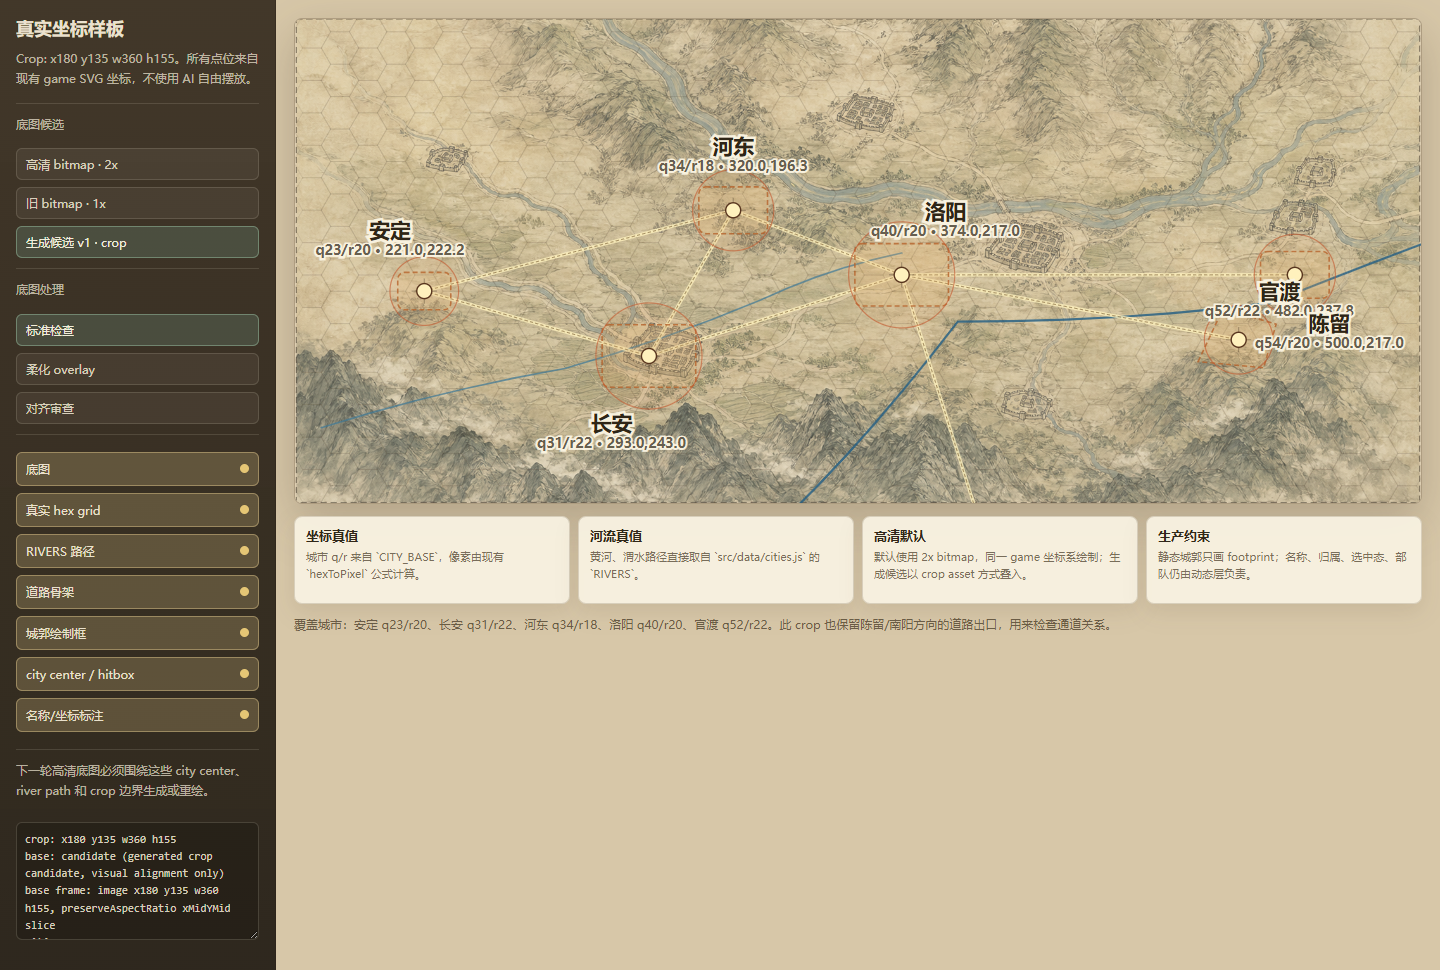
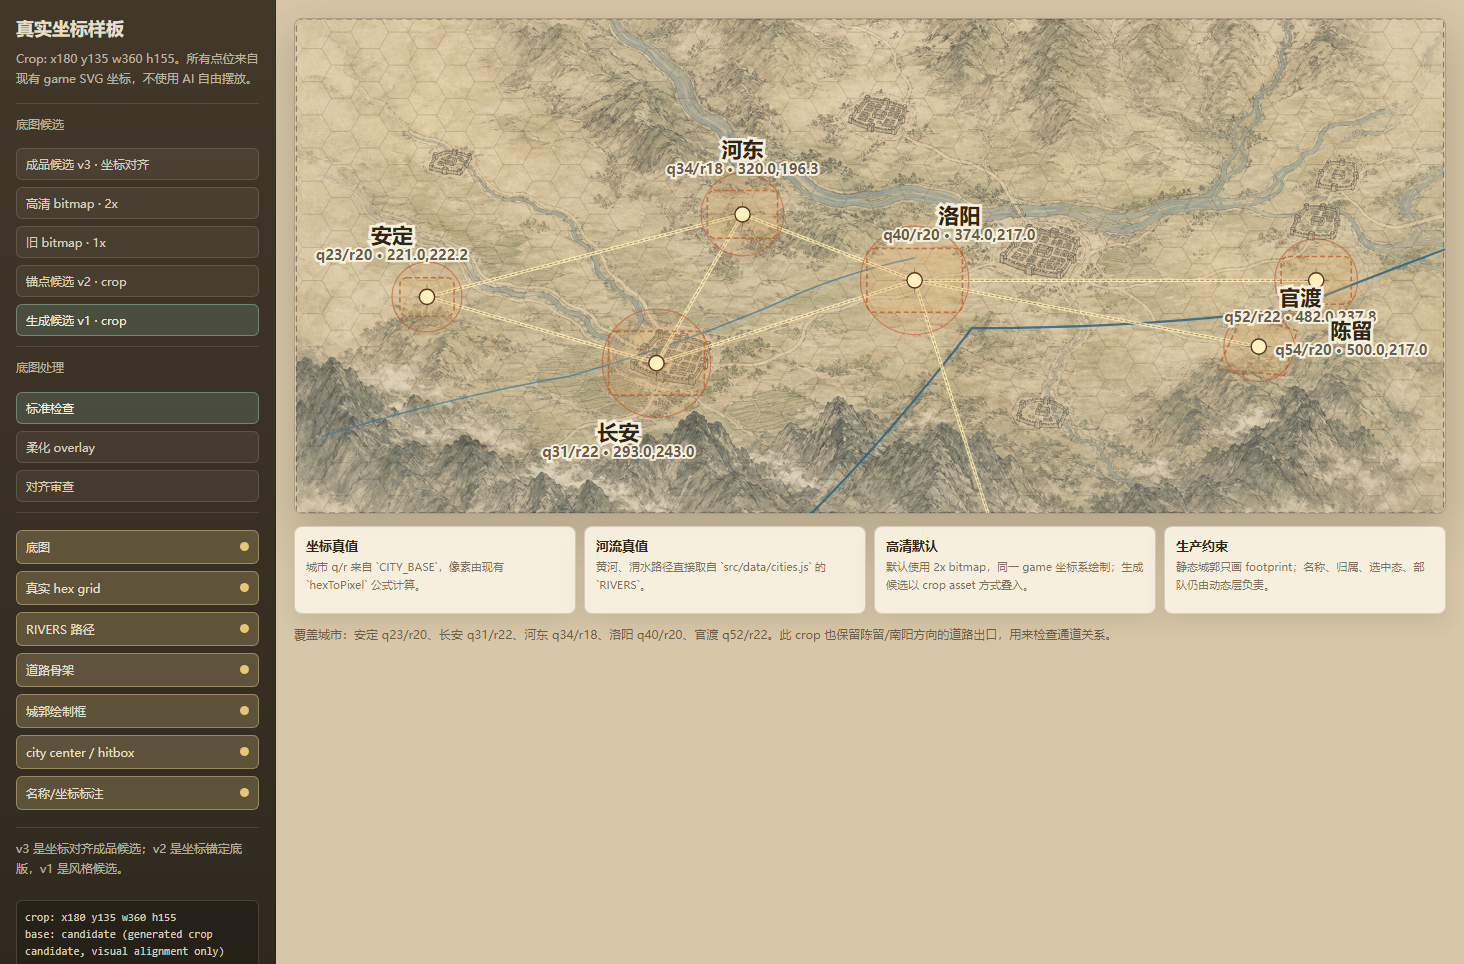
docs(map): add coordinate-aligned crop candidate v3

Changed region(s): [[0.0, 0.0, 1.0, 1.0], [0.875, 0.0622, 0.9062, 0.0934]]

diff --git a/docs/map_design/real_coord_crop_overlay.html b/docs/map_design/real_coord_crop_overlay.html
@@ -317,8 +317,10 @@
       <div class="controls">
         <p class="meta">底图候选</p>
         <div class="option-grid">
-          <button class="option" data-base="hd" data-active="true">高清 bitmap · 2x</button>
+          <button class="option" data-base="aligned" data-active="true">成品候选 v3 · 坐标对齐</button>
+          <button class="option" data-base="hd" data-active="false">高清 bitmap · 2x</button>
           <button class="option" data-base="legacy" data-active="false">旧 bitmap · 1x</button>
+          <button class="option" data-base="anchor" data-active="false">锚点候选 v2 · crop</button>
           <button class="option" data-base="candidate" data-active="false">生成候选 v1 · crop</button>
         </div>
       </div>
@@ -343,7 +345,7 @@
       </div>
 
       <div class="controls">
-        <p class="meta">下一轮高清底图必须围绕这些 city center、river path 和 crop 边界生成或重绘。</p>
+        <p class="meta">v3 是坐标对齐成品候选；v2 是坐标锚定底版，v1 是风格候选。</p>
         <textarea id="coordReadout" class="readout" spellcheck="false" readonly></textarea>
       </div>
     </aside>
@@ -352,7 +354,7 @@
       <section class="stage">
         <svg viewBox="180 135 360 155" aria-label="Luoyang Changan real coordinate crop">
           <g id="baseLayer">
-            <image id="baseImage" class="base-image" data-treatment="normal" href="../../assets/maps/china-ink-base-v1-hd.png" x="0" y="-12" width="1360" height="765" preserveAspectRatio="none"/>
+            <image id="baseImage" class="base-image" data-treatment="normal" href="real_coord_crop_base_aligned_v3.png" x="180" y="135" width="360" height="155" preserveAspectRatio="xMidYMid meet"/>
             <rect class="crop-mask" x="0" y="0" width="960" height="740"/>
             <rect class="crop-frame" x="180" y="135" width="360" height="155"/>
           </g>
@@ -384,6 +386,12 @@
     const HEX_H = Math.sqrt(3) * HEX_SIZE;
     const CROP = { x: 180, y: 135, w: 360, h: 155 };
     const baseSources = {
+      aligned: {
+        href: 'real_coord_crop_base_aligned_v3.png',
+        frame: CROP,
+        preserve: 'xMidYMid meet',
+        note: 'coordinate-aligned production candidate'
+      },
       hd: {
         href: '../../assets/maps/china-ink-base-v1-hd.png',
         frame: { x: 0, y: -12, w: 1360, h: 765 },
@@ -396,6 +404,12 @@
         preserve: 'none',
         note: 'full-map coordinate image'
       },
+      anchor: {
+        href: 'real_coord_crop_base_anchor_v2.png',
+        frame: CROP,
+        preserve: 'xMidYMid meet',
+        note: 'coordinate-anchored crop candidate'
+      },
       candidate: {
         href: 'real_coord_crop_base_candidate_v1.png',
         frame: CROP,
@@ -403,7 +417,7 @@
         note: 'generated crop candidate, visual alignment only'
       }
     };
-    let currentBase = 'hd';
+    let currentBase = 'aligned';
 
     const cities = [
       { id: 'anding', name: '安定', q: 23, r: 20, size: 'small', tags: '山地/产马', label: [-11, -17] },
@@ -540,28 +554,35 @@
       });
     }
 
+    function setBase(nextBase) {
+      const source = baseSources[nextBase];
+      if (!source) return;
+      const frame = source.frame;
+      currentBase = nextBase;
+      baseImage.setAttribute('href', source.href);
+      baseImage.setAttribute('x', frame.x);
+      baseImage.setAttribute('y', frame.y);
+      baseImage.setAttribute('width', frame.w);
+      baseImage.setAttribute('height', frame.h);
+      baseImage.setAttribute('preserveAspectRatio', source.preserve);
+      setActiveButton('[data-base]', 'base', nextBase);
+      updateCoordReadout();
+    }
+
+    function setTreatment(nextTreatment) {
+      baseImage.dataset.treatment = nextTreatment;
+      setActiveButton('[data-treatment]', 'treatment', nextTreatment);
+    }
+
     document.querySelectorAll('[data-base]').forEach(btn => {
       btn.addEventListener('click', () => {
-        const nextBase = btn.dataset.base;
-        const source = baseSources[nextBase];
-        const frame = source.frame;
-        currentBase = nextBase;
-        baseImage.setAttribute('href', source.href);
-        baseImage.setAttribute('x', frame.x);
-        baseImage.setAttribute('y', frame.y);
-        baseImage.setAttribute('width', frame.w);
-        baseImage.setAttribute('height', frame.h);
-        baseImage.setAttribute('preserveAspectRatio', source.preserve);
-        setActiveButton('[data-base]', 'base', nextBase);
-        updateCoordReadout();
+        setBase(btn.dataset.base);
       });
     });
 
     document.querySelectorAll('[data-treatment]').forEach(btn => {
       btn.addEventListener('click', () => {
-        const nextTreatment = btn.dataset.treatment;
-        baseImage.dataset.treatment = nextTreatment;
-        setActiveButton('[data-treatment]', 'treatment', nextTreatment);
+        setTreatment(btn.dataset.treatment);
       });
     });
 
@@ -576,6 +597,9 @@
     drawHexes();
     drawRoads();
     drawCities();
+    const params = new URLSearchParams(location.search);
+    setBase(params.get('base') || currentBase);
+    if (params.has('treatment')) setTreatment(params.get('treatment'));
     updateCoordReadout();
   </script>
 </body>

diff --git a/docs/memory/project_map_ui_direction.md b/docs/memory/project_map_ui_direction.md
@@ -148,3 +148,34 @@ Current judgment:
 - `real_coord_crop_base_candidate_v1.png` is visually promising but not coordinate-authoritative; some baked city footprints are still offset from the real anchors, so use it as a style/crop candidate and verify or repaint against the overlay before production.
 - The next actual art step should produce or repaint a crop that has static city/pass footprints baked into the terrain base, then drop it behind this same overlay to test snap accuracy.
 - Do not bake dynamic city names, ownership, selected state, units, war state, or development/status into the bitmap.
+
+## 2026-06-05 Anchor Candidate v2
+
+Continued the real-coordinate crop workbench with a deterministic coordinate-anchored candidate:
+
+- Added `docs/map_design/real_coord_crop_base_anchor_v2.png`, generated from the current HD bitmap crop and painted only with static city footprints, road skeleton, and small pass/ford hints snapped to the existing `hexToPixel` city anchors.
+- Updated `docs/map_design/real_coord_crop_overlay.html` with a new `锚点候选 v2 · crop` base option and URL parameters such as `?base=anchor` / `?base=candidate` for repeatable preview capture.
+- Regenerated `docs/map_design/real_coord_crop_base_anchor_v2_overlay_preview.png` and restored `docs/map_design/real_coord_crop_base_candidate_v1_overlay_preview.png`.
+- Verification: jsdom check confirmed `?base=anchor` selects `real_coord_crop_base_anchor_v2.png` with 680 hexes, 8 road links, 7 city hitboxes, and 7 footprint guides.
+
+Current judgment:
+
+- v2 is coordinate-authoritative and useful as a production/alignment bottom plate, but visually more tool-like and less rich than v1.
+- v1 remains the stronger art-style target, but it is still not coordinate-authoritative.
+- Best next step is to use v2 as the anchor/layout guide and repaint or regenerate toward v1's richness while preserving exact city centers, river paths, crop frame, and non-baked dynamic-state constraints.
+
+## 2026-06-05 Aligned Candidate v3
+
+Produced a coordinate-aligned finished crop candidate after producer sign-off on the richer art direction:
+
+- Added `docs/map_design/real_coord_crop_base_aligned_v3.png`.
+- v3 uses the coordinate crop frame and game city anchors as hard constraints, with static city/pass footprints baked at the existing `hexToPixel` anchor positions.
+- Updated `docs/map_design/real_coord_crop_overlay.html` so `成品候选 v3 · 坐标对齐` is the default base, while keeping HD, v2 anchor, and v1 style candidates available for comparison.
+- Generated `docs/map_design/real_coord_crop_base_aligned_v3_overlay_preview.png`.
+- Verification: jsdom check confirmed default/`?base=aligned` selects `real_coord_crop_base_aligned_v3.png` with 680 hexes, 8 road links, 7 city hitboxes, and 7 footprint guides.
+
+Current judgment:
+
+- v3 is the first usable coordinate-aligned art candidate for this crop: bottom bitmap city footprints and overlay city centers now match.
+- v1 should no longer be used for coordinate review; it remains only a style reference.
+- Next improvement, if desired, is purely art polish on v3 richness/texture, not coordinate correction.
